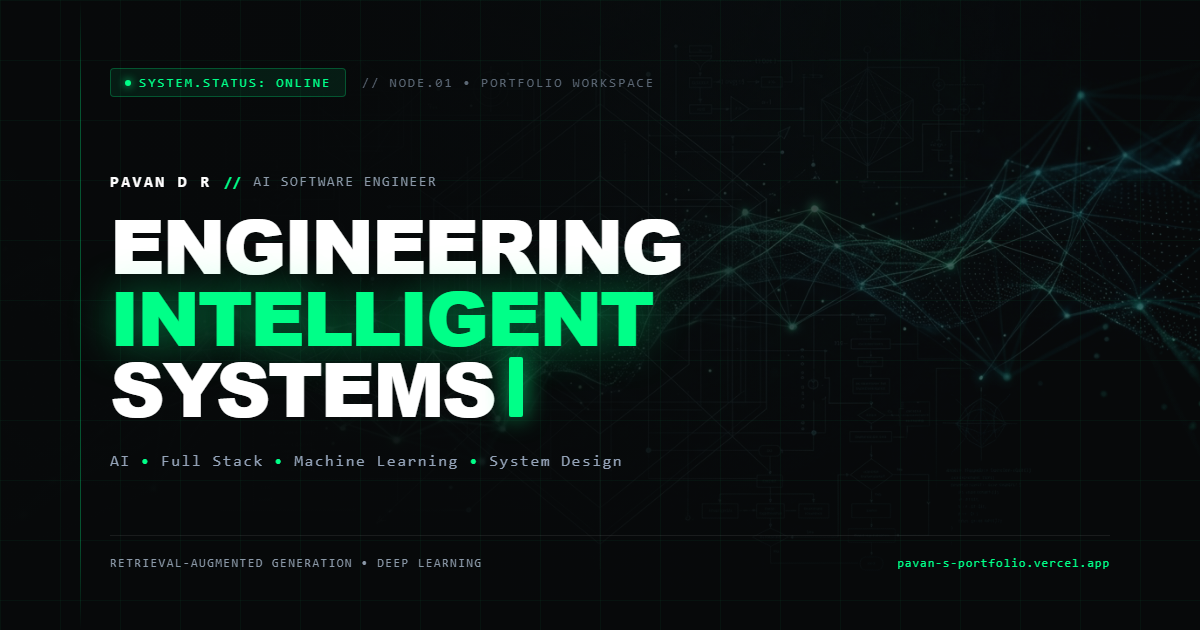
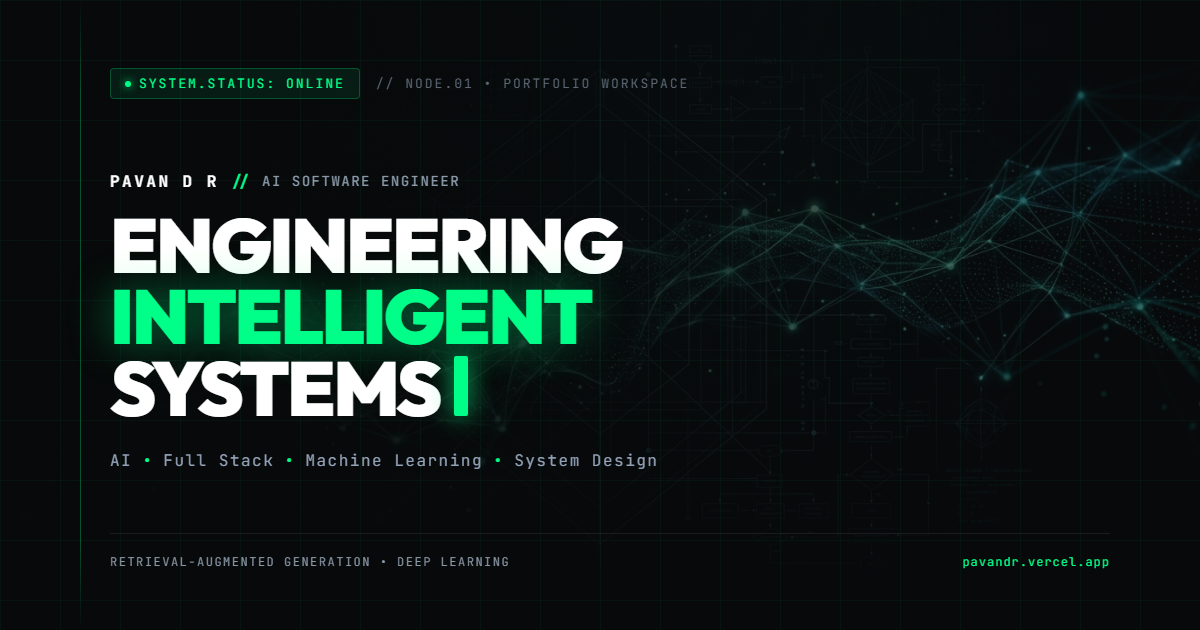
fix(seo): update production domain to https://pavandr.vercel.app and regenerate OG hero image

diff --git a/index.html b/index.html
@@ -9,24 +9,24 @@
     <meta name="author" content="Pavan D R" />
     <meta name="theme-color" content="#07090a" />
 
-    <link rel="canonical" href="https://pavan-s-portfolio.vercel.app/" />
+    <link rel="canonical" href="https://pavandr.vercel.app/" />
 
     <!-- Open Graph / Facebook -->
     <meta property="og:type" content="website" />
-    <meta property="og:url" content="https://pavan-s-portfolio.vercel.app/" />
+    <meta property="og:url" content="https://pavandr.vercel.app/" />
     <meta property="og:title" content="Pavan D R — AI Software Engineer &amp; Full Stack Developer" />
     <meta property="og:description" content="Digital portfolio &amp; engineering workspace of Pavan D R, specializing in production-ready RAG systems, deep learning pipelines, and intelligent architectures." />
-    <meta property="og:image" content="https://pavan-s-portfolio.vercel.app/og-image.png" />
+    <meta property="og:image" content="https://pavandr.vercel.app/og-image.png" />
     <meta property="og:image:width" content="1200" />
     <meta property="og:image:height" content="630" />
     <meta property="og:image:alt" content="Pavan D R — AI Software Engineer — Engineering Intelligent Systems" />
 
     <!-- Twitter -->
     <meta name="twitter:card" content="summary_large_image" />
-    <meta name="twitter:url" content="https://pavan-s-portfolio.vercel.app/" />
+    <meta name="twitter:url" content="https://pavandr.vercel.app/" />
     <meta name="twitter:title" content="Pavan D R — AI Software Engineer &amp; Full Stack Developer" />
     <meta name="twitter:description" content="Digital portfolio &amp; engineering workspace of Pavan D R, specializing in production-ready RAG systems, deep learning pipelines, and intelligent architectures." />
-    <meta name="twitter:image" content="https://pavan-s-portfolio.vercel.app/og-image.png" />
+    <meta name="twitter:image" content="https://pavandr.vercel.app/og-image.png" />
     <meta name="twitter:image:alt" content="Pavan D R — AI Software Engineer — Engineering Intelligent Systems" />
 
     <!-- Fonts -->
